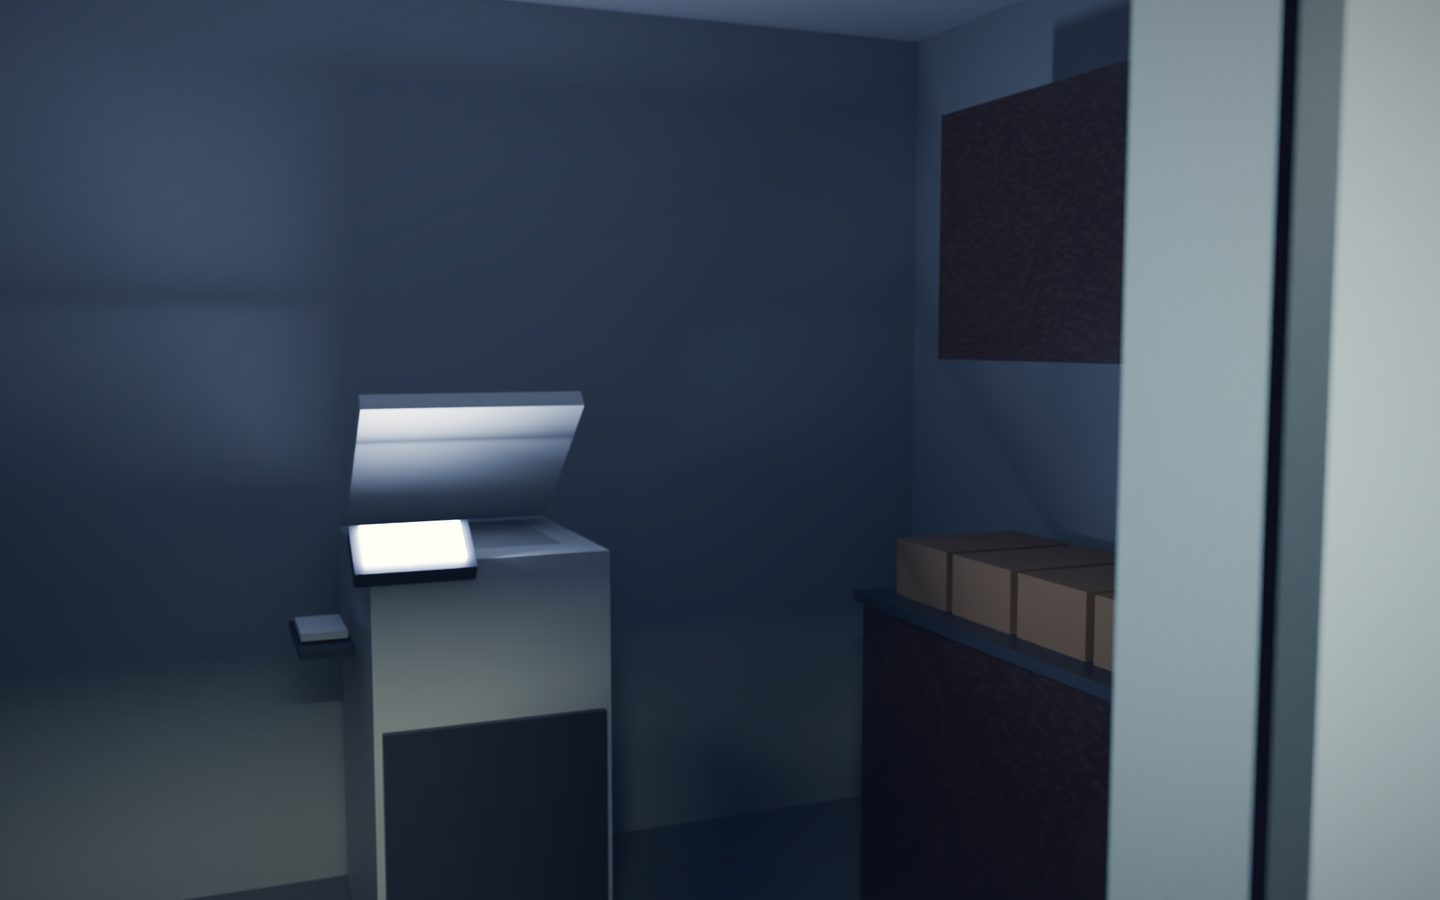
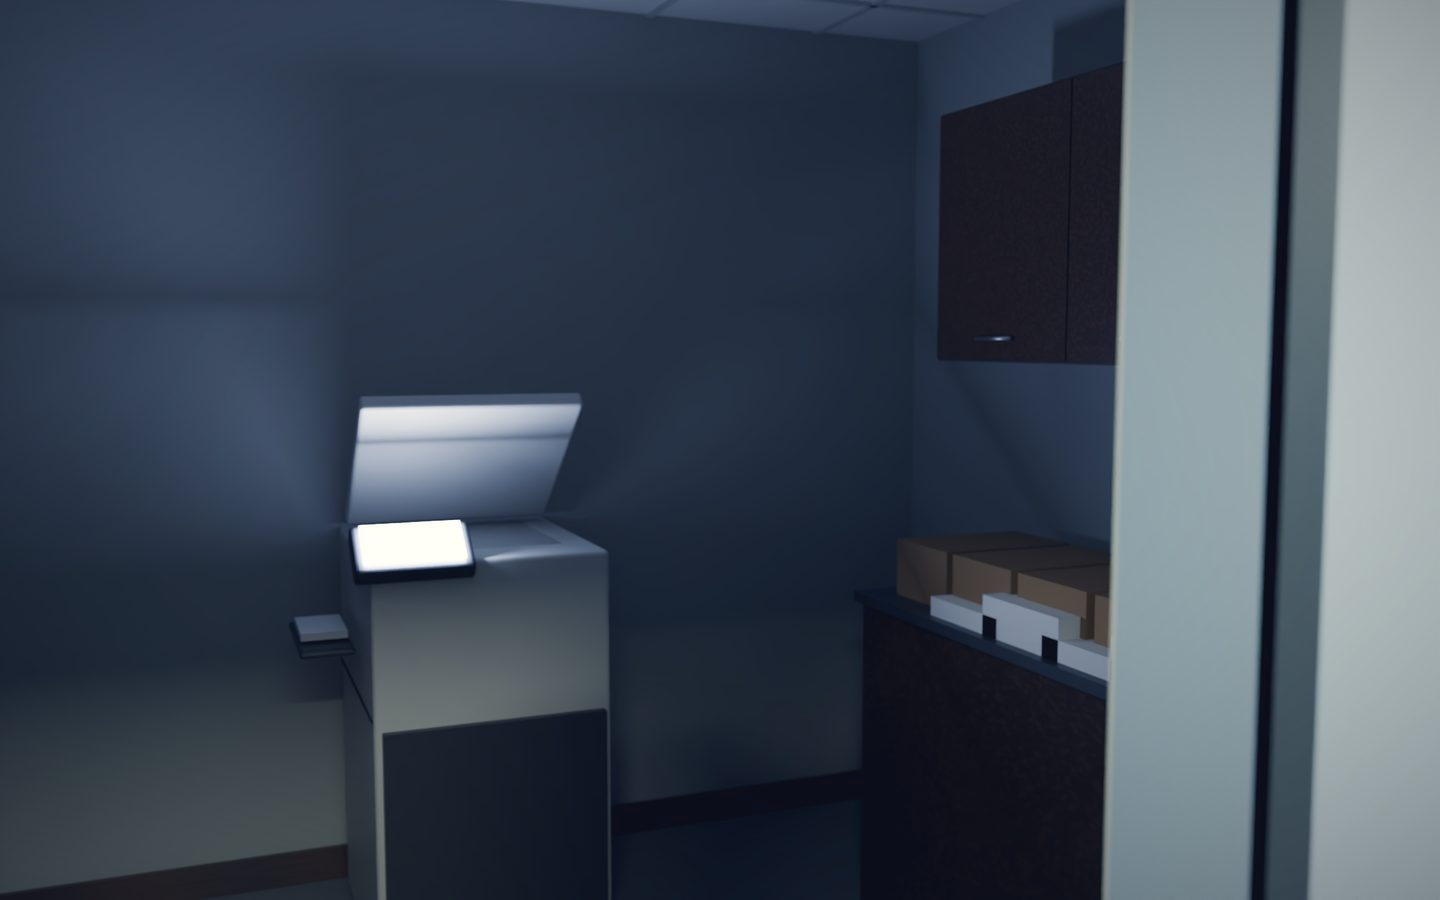
第二集影印室戴文那場重做：重新取景、戴文側面重畫（#447） (#471)
* 第二集影印室戴文那場重做：重新取景、戴文側面重畫（#447）

- 鏡頭移到影印室東北角、門開 75°：門口的盧卡斯和側身的戴文都在手機直式裁切裡（設計師 #458 審查第 2 項）。
- 影印室加細節：天花板格柵、踢腳板、吊櫃分門、紙堆、檔案箱、布告欄、信件格、影印機倒角與接縫（場景檔在 project-files）。
- 戴文側面照 cast：捲髮改成大小不一的捲、大圓眼鏡凸出側面輪廓、鏡腳只在鏡框到髮際亮一小段（整條亮會像帽簷）。
- 立牌的邊光可以只打在剪影裡的一個部位（part），鏡腳用。
- 底圖：掃描燈對頭部探針 10:1、地板 L* 3.6／3.71、黃 0。
- 英文字幕斷點 4 句；名字縮寫「V. 惠特洛克」「R. Delgado」的句點不當句尾切。

Claude-Session: https://claude.ai/code/session_01G8FC15sLW17Be3jTGciJcG

* 戴文側面：拿掉鏡腳亮線，眼鏡改靠鏡片凸出輪廓（設計師 #471 審查 1）

- 立牌回到只有一條輪廓邊光；鏡腳那塊剪影和 standee.py 的部位邊光一起拿掉。
- 鏡片往前加大：前緣凸出眉骨到鼻尖那條線，桌機 1440 上 10.2 px、手機 390 上 9.6 px。

Claude-Session: https://claude.ai/code/session_01G8FC15sLW17Be3jTGciJcG

* 影印室兩場照新房間重算：南牆內面改影印室的漆（設計師 #471 審查 2）

- 影印室朝走廊那面牆原本用了走廊的藍灰漆（#7f8fa0），改成跟其他三面一樣的 #a3a6a3（場景檔在 project-files）。
- 戴文那張和倫理三版用同一份場景檔重算；面板是裝置，兩張共用一個權重，照新探針重解成 0.097，倫理版溢光 0.387，兩張頭部都 10:1。
- 倫理版曝光補回權重降掉的 0.67 檔（exp 6.27）。兩張都看得到的西牆 ΔE76 5.9。
- 正面的戴文頭髮也改成一顆顆的捲，跟側面同一個做法。

Claude-Session: https://claude.ai/code/session_01G8FC15sLW17Be3jTGciJcG

---------

diff --git a/src/ui/court/subtitleSplit.ts b/src/ui/court/subtitleSplit.ts
@@ -179,11 +179,16 @@ const CLAUSE = /[^，、；：—,;:]+(?:[，、；：—,;:]+\s*)?/g;
 const zhOf = (t: string) => /[\p{Script=Han}]/u.test(t);
 const join = (parts: string[]) => parts.join(zhOf(parts[0] ?? '') ? '' : ' ');
 
-/** 依正規表示式分段；「Mr.」「Dr.」後面的句點不是句尾：併回下一段。 */
+/**
+ * 依正規表示式分段；「Mr.」「Dr.」和名字縮寫（「V. 惠特洛克」「R. Delgado」）後面的句點不是句尾：併回下一段。
+ */
 function piecesOf(t: string, re: RegExp) {
   const out: string[] = [];
   for (const x of (t.match(re) ?? [t]).filter((y) => y.trim())) {
-    if (out.length && /\b(?:Mr|Mrs|Ms|Dr|Prof|St|Jr|Sr)\.\s*$/.test(out[out.length - 1]))
+    if (
+      out.length &&
+      /(?:\b(?:Mr|Mrs|Ms|Dr|Prof|St|Jr|Sr)|(?:^|\s)[A-Z])\.\s*$/.test(out[out.length - 1])
+    )
       out[out.length - 1] += x;
     else out.push(x);
   }

diff --git a/src/ui/plateBreaks.ts b/src/ui/plateBreaks.ts
@@ -56,6 +56,11 @@ export const PLATE_BREAKS: readonly string[] = [
   'This time,|you remembered that.',
   'You saved him a trial,|and you saved the firm/sixteen hours.',
   'They want to know|whether your subpoena¦is still sitting/on their audit log.',
+  // 第二集尾聲：影印室，戴文和那張銷毀令（#447）
+  'Devon lays/an old document‖on the scanner|and zooms to four/hundred percent.',
+  'The attachment|to the records/retention policy.',
+  '"Pier Nine warehouse/maintenance record¦backups: destroyed/per policy."',
+  "The approver's signature…|I zoomed in.",
 ];
 
 /**

diff --git a/tools/standee/figs.py b/tools/standee/figs.py
@@ -72,6 +72,33 @@ def wavy(pts, amp, n, seed=0.0):
         d = N((x - cx, y - cy)); out.append((x + d[0] * r, y + d[1] * r))
     return out
 
+def curls(path, d, amp=0.6, seed=0.0, k=5):
+    """curly hair edge (cast: devon curly): walk `path` in irregular steps around d m and bulge each step outward (left of
+    travel) as a flattened arc of its own size, so the outline reads as loose curls rather than a smooth helmet or a row of beads"""
+    L = [0.0]
+    for a, b in zip(path, path[1:]): L.append(L[-1] + math.dist(a, b))
+    def at(s):
+        for i in range(len(path) - 1):
+            if s <= L[i + 1] or i == len(path) - 2:
+                return lerp(path[i], path[i + 1], (s - L[i]) / max(1e-9, L[i + 1] - L[i]))
+    ss, i = [0.0], 0
+    while ss[-1] < L[-1]:
+        ss.append(ss[-1] + d * (1.0 + 0.45 * math.sin(i * 2.399 + seed) * math.cos(i * 1.31 + seed)))
+        i += 1
+    ss[-1] = L[-1]
+    if ss[-1] - ss[-2] < d * 0.4: ss.pop(-2)
+    q = [at(s) for s in ss]; pts = []
+    for i, (a, b) in enumerate(zip(q, q[1:])):
+        m = lerp(a, b, 0.5); h = (a[0] - m[0], a[1] - m[1]); u = N(V(a, b)); o = (-u[1], u[0])
+        r = math.hypot(*h) * amp * (1.0 + 0.35 * math.sin(i * 3.7 + seed * 2.1))
+        sk = 0.25 * math.sin(i * 1.9 + seed)   # lean the curl forward or back along the edge
+        pts.append(a)
+        for j in range(1, k):
+            g = math.pi * j / k; c = math.cos(g) - sk * math.sin(g)
+            pts.append((m[0] + h[0] * c + o[0] * r * math.sin(g), m[1] + h[1] * c + o[1] * r * math.sin(g)))
+    pts.append(q[-1])
+    return pts
+
 def neck(base_c, top_c, wb=0.13, wt=0.098, wn=0.088):
     """neck: narrowest under the jaw, flaring into the trapezius"""
     m = lerp(base_c, top_c, 0.55)
@@ -391,8 +418,8 @@ def curly(hc, w=0.17, top=0.15, seed=0.0):
         a = math.pi * (-0.12 + 1.24 * i / 21)                     # from the right ear over the top to the left ear
         pts.append((hc[0] + math.cos(a) * w / 2 * 1.06, hc[1] + 0.012 + math.sin(a) * top))
     pts += [(hc[0] - w * 0.46, hc[1] - 0.035), (hc[0] - w * 0.3, hc[1] + 0.05), (hc[0], hc[1] + 0.07), (hc[0] + w * 0.3, hc[1] + 0.05), (hc[0] + w * 0.46, hc[1] - 0.035)]
-    pts = pts[:22][::-1] + pts[22:][::-1]
-    return [wavy(pts, 0.01, len(pts), seed)]
+    # 11-27 (#471): the outer edge as separate curls, the same curls() as the profile, so the two copy-room shots read as one head
+    return [curls(pts[:22][::-1], 0.03, seed=seed) + pts[22:][::-1]]
 
 def devin_front():
     # Ep2 ethics: Devin turned to the door, facing the camera. Narrow, wide head (cast), 24; short fluffy curls, big round glasses
@@ -427,20 +454,19 @@ def devin_profile():
     nb, nt = (0.0, 1.47), (0.03, 1.56)
     P_.append(('neck', [(nb[0] - 0.055, nb[1]), (nb[0] + 0.05, nb[1]), (nt[0] + 0.045, nt[1]), (nt[0] - 0.045, nt[1])]))
     hc = (nt[0] + 0.01, 1.625); t = math.radians(-14)
-    prof = [(-0.098, 0.0), (-0.1, 0.045), (-0.085, 0.09), (-0.05, 0.118), (0.0, 0.122), (0.045, 0.105), (0.075, 0.07), (0.088, 0.035), (0.086, 0.01),
-            (0.094, -0.012), (0.106, -0.04), (0.094, -0.047), (0.092, -0.06), (0.097, -0.072), (0.088, -0.082), (0.084, -0.095), (0.06, -0.112),
-            (0.025, -0.112), (0.0, -0.09), (-0.03, -0.075), (-0.07, -0.06), (-0.092, -0.035)]
+    # wide head; profile points close together so the spline keeps the brow, nose, lips and chin as single smooth turns
+    prof = [(-0.108, 0.0), (-0.106, 0.05), (-0.088, 0.095), (-0.05, 0.122), (0.0, 0.128), (0.045, 0.113), (0.074, 0.08), (0.087, 0.045),
+            (0.089, 0.028), (0.084, 0.012), (0.096, -0.01), (0.108, -0.03), (0.114, -0.039), (0.108, -0.047), (0.094, -0.05),
+            (0.094, -0.058), (0.09, -0.067), (0.093, -0.076), (0.084, -0.087), (0.091, -0.1), (0.084, -0.115), (0.055, -0.124),
+            (0.018, -0.12), (-0.03, -0.09), (-0.075, -0.066), (-0.1, -0.036)]
     rot = lambda p: (hc[0] + p[0] * math.cos(t) - p[1] * math.sin(t), hc[1] + p[0] * math.sin(t) + p[1] * math.cos(t))
     P_.append(('head', [rot(p) for p in prof]))
-    # big round glasses: the rim stands just proud of the brow-nose line in front of the eye
-    P_.append(('head', [rot(p) for p in [(0.082, 0.03), (0.098, 0.026), (0.104, 0.008), (0.1, -0.012), (0.086, -0.016)]]))
+    # big round glasses seen edge-on: the lens stands proud of the brow-nose dip and rests on the bridge
+    P_.append(('head', [rot(p) for p in [(0.082, 0.048), (0.106, 0.047), (0.117, 0.026), (0.116, 0.002), (0.108, -0.014), (0.09, -0.013)]]))
     hair = [(-0.112, -0.03), (-0.124, 0.03), (-0.118, 0.09), (-0.092, 0.135), (-0.05, 0.158), (0.0, 0.16), (0.045, 0.148), (0.078, 0.118),
             (0.09, 0.085), (0.07, 0.07), (0.03, 0.085), (-0.02, 0.07), (-0.06, 0.02), (-0.075, -0.04), (-0.095, -0.06)]
-    dense = []   # twice the points, so the curls read as small lumps rather than a smooth helmet
-    for i, a in enumerate(hair[:10]):
-        dense += [a, lerp(a, hair[i + 1], 0.5)]
-    dense += hair[10:]
-    P_.append(('hair', [rot(p) for p in wavy(dense, 0.011, len(dense), 2.3)]))
+    # outer edge (nape, crown, fringe) as separate curls; the inner edge (hairline over the temple and ear) stays smooth
+    P_.append(('hair', [rot(p) for p in curls(hair[:10], 0.03, seed=2.3) + hair[10:]]))
     # near (right) arm: upper arm down the side, forearm forward to the scan glass, hand flat on it
     S, E, W = (-0.005, 1.4), (0.025, 1.13), (0.225, 1.015)
     P_.append(('arm', seg(S, E, 0.1, 0.086, bulge=0.012, at=0.35)))
